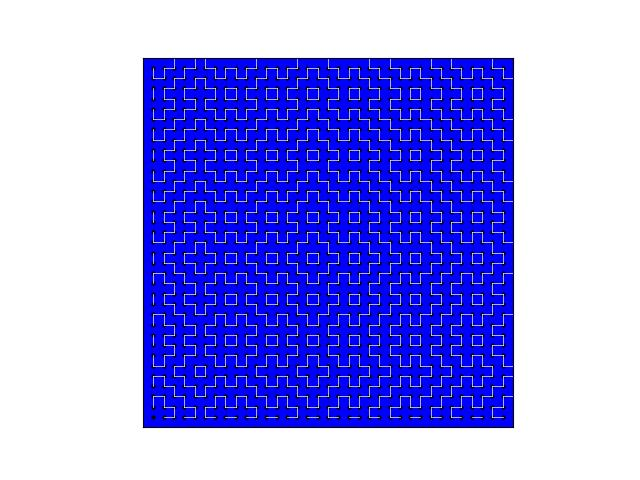
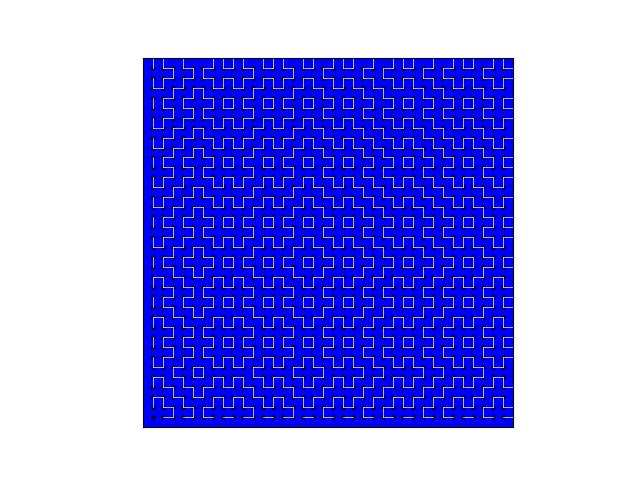
changed grid size

Changed region(s): [[0.2188, 0.125, 0.8125, 0.875]]

diff --git a/design.py b/design.py
@@ -4,7 +4,7 @@ import numpy as np
 import consts
 
 def get_grid_size(phrase):
-    return len(phrase)
+    return len(phrase) + 1
 
 def connect_dots_x_axis(ax, x, y, phrase):
     dot_connections = []
@@ -76,7 +76,8 @@ if __name__ == '__main__':
         "Fortune favors the bold",
         "Good things come to those who wait",
         "Honesty is the best policy",
-        "It's a piece of cake"
+        "It's a piece of cake",
+        "aeiou"
         ]
 
     for my_phrase in phrases:
@@ -120,4 +121,4 @@ if __name__ == '__main__':
         ax.set_ylim(-1, GRID_SIZE)
         ax.set_facecolor('blue')  # Set background color to blue
         plt.savefig(f'{filename}')
-        plt.show()
+        # plt.show()
